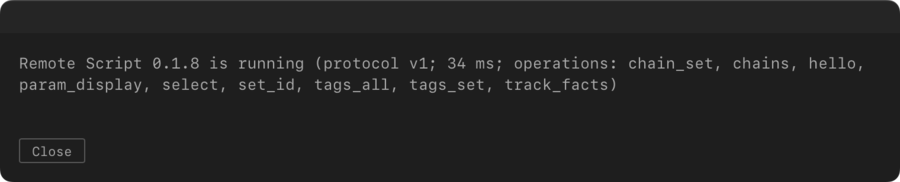
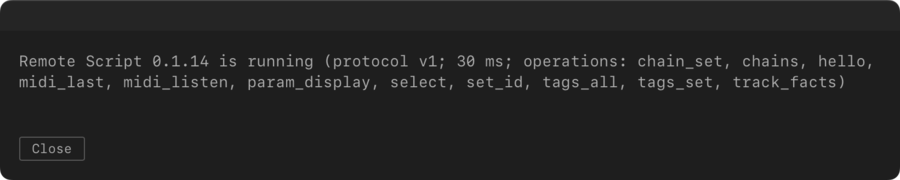
docs(tags): tag board keys after the hand test (suggestion row, Tab completes, Enter keeps text); Remote Script 0.1.14 capture

diff --git a/docs/using.md b/docs/using.md
@@ -304,8 +304,13 @@ Each tag's heading line holds a fold arrow, the tag's name, an **add…** input 
 the tag's tracks sit as chips.
 
 - **Add a track.** Type a track's name in **add…**. The best match shows as ghost text, and the tracks that do not
-  carry the tag yet show as up to six chips below it. `Tab` puts the highlighted track in the field, and `Enter`
-  adds it. A click on a suggestion adds it too. A new chip has a dashed ring. "no match" means nothing was added.
+  carry the tag yet show as up to six suggestions below it. `Enter` adds the highlighted track. A click on a
+  suggestion adds it too. A new chip has a dashed ring. "no match" means nothing was added.
+  - The text and the list stay after `Enter`, so you can add similar names one after another. If the added name is
+    exactly what you typed, the field clears instead, and the next `Enter` applies. `Esc` clears the field.
+  - `Tab` completes the text with the highlighted suggestion. It does not add.
+  - `→` enters the suggestion row, on the highlighted suggestion (the one `↑` `↓` picked). There, `←` `→` walk the suggestions, `←` on the first returns to the field, and
+    typing edits the text.
 - **Remove a track from a tag.** Only the **×** on a chip removes it (or `Backspace` on a chip you selected). The
   chip is struck through, and a second press unmarks it. A click on a chip's name only selects the chip, so a stray
   click removes nothing.
@@ -362,15 +367,20 @@ tag, **untagged**); `→` goes in, `←` goes out.
 | The **untagged** heading | `→` `Enter` | Unfolds it; again, steps onto the tracks. |
 | A heading | `F2` | Renames the tag. |
 | An **add…** field | typing | Suggests tracks. |
-| An **add…** field | `Tab` | Puts the highlighted track in the field. In an empty field, it moves on as usual. |
-| An **add…** field | `Enter` | Adds the highlighted track. With no match, nothing is added. In an empty field, it applies. |
+| An **add…** field | `Tab` | Completes the text with the highlighted suggestion. It does not add. In an empty field, it moves on as usual. |
+| An **add…** field | `Enter` | Adds the highlighted track. The text and the list stay, unless the added name is exactly what you typed: then the field clears. With no match, nothing is added. In an empty field, it applies. |
 | An **add…** field | `↑` `↓` | Move through the suggestions. Without suggestions, they go to the other headings. |
-| An **add…** field | `→` | At the end of the text (an empty field too), goes onto the first chip. |
+| An **add…** field | `→` | With suggestions showing, enters the suggestion row. Otherwise, at the end of the text (an empty field too), goes onto the first chip. |
 | An **add…** field | `←` | At the start of the text, goes out to the heading. |
 | An **add…** field | `Alt+←` `Alt+→` | Move the cursor in the typed text. |
 | An **add…** field | `Backspace` | In an empty field, marks the last chip for removal. A second press unmarks it. |
 | An **add…** field | `Shift+Backspace` | In an empty field, marks the whole tag for removal. |
 | An **add…** field | `Esc` | Clears the typed text. In an empty field, it closes the board. |
+| The suggestion row | `←` `→` | Walk the suggestions. `←` on the first returns to the field. |
+| The suggestion row | `Enter` | Adds the highlighted track. The text and the list stay, unless the added name is exactly what you typed: then the field clears. |
+| The suggestion row | `Tab` | Completes the text with it and returns to the field. |
+| The suggestion row | typing | Returns to the field and edits the text. |
+| The suggestion row | `Esc` | Leaves the row. The text stays; a second `Esc` clears it. |
 | A chip | `←` `→` | Step through the chips. `→` on the last chip stays. `←` on the first returns to the field. |
 | A chip | `Backspace` `Delete` | Mark the chip for removal. A second press unmarks it. A chip you just added disappears. |
 | A chip | `↑` `↓` | Go to the heading, or to the next one. |

diff --git a/README.md b/README.md
@@ -87,7 +87,7 @@ More: [Commands](https://marvinhauke.github.io/cmdAbl/reference/commands/) for t
 - **Ableton Live with Extensions support.** The Extensions SDK is in beta; cmdAbl is built against version 1.0.0-beta.1.
 - **[Karabiner-Elements](https://karabiner-elements.pqrs.org)** (free), for the `:` key. It is optional: the palette
   also opens from Live's context menu.
-- **The cmdAbl Remote Script** (0.1.8, shipped with cmdAbl). `cmdabl setup` installs it; then choose it as Control
+- **The cmdAbl Remote Script** (0.1.14, shipped with cmdAbl). `cmdabl setup` installs it; then choose it as Control
   Surface in Live. Selecting objects, mute and solo on rack chains and Drum Rack pads, tags and notes need it.
 
 More: [Getting started → What you need](https://marvinhauke.github.io/cmdAbl/getting-started/#what-you-need)

diff --git a/docs/getting-started.md b/docs/getting-started.md
@@ -66,7 +66,7 @@ Check that it works:
   Control Surface (after `cmdabl setup` and a restart). The log is `~/Library/Preferences/Ableton/Live <version>/Log.txt`, where `<version>` is
   your Live version. The Remote Script's lines contain `RemoteScriptMessage: (cmdAbl)`.
 
-![The cmdabl bridge result: Remote Script 0.1.8 is running, with its protocol version, response time and operations](assets/images/bridge.png)
+![The cmdabl bridge result: Remote Script 0.1.14 is running, with its protocol version, response time and operations](assets/images/bridge.png)
 
 *`cmdabl bridge` on a current install.*
 

diff --git a/docs/remote-script.md b/docs/remote-script.md
@@ -58,7 +58,7 @@ Run `cmdabl bridge` in the palette. It sends one request to the Remote Script an
 version, the response time and the operations it supports. A healthy reply means the script is running and
 answering.
 
-![The cmdabl bridge result: Remote Script 0.1.8 is running, with its protocol version, response time and operations](assets/images/bridge.png)
+![The cmdabl bridge result: Remote Script 0.1.14 is running, with its protocol version, response time and operations](assets/images/bridge.png)
 
 *`cmdabl bridge` on a current install.*
 
